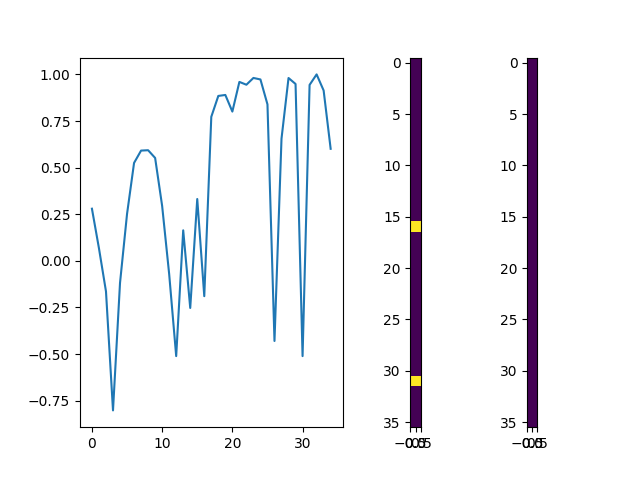
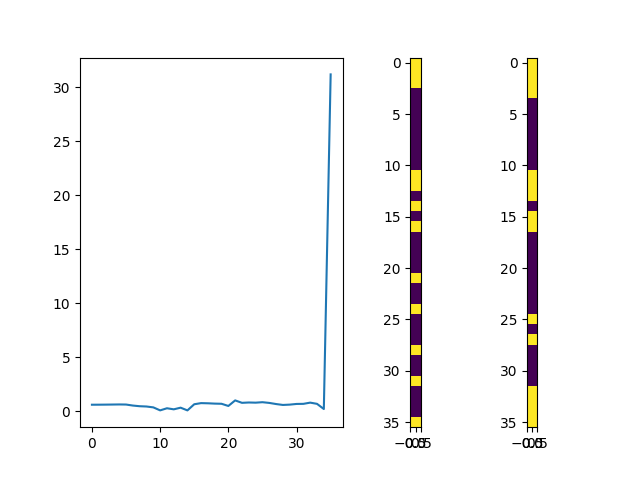
baseline working peaks to slot model.

diff --git a/1d/peaks_to_slot/preprocess.py b/1d/peaks_to_slot/preprocess.py
@@ -12,6 +12,7 @@ def import_data(timestamp_list):
 
     slots_list = []
     peaks_list = []
+    max_list = []
 
     for timestamp in timestamp_list:
         with open('comsol_results/1d/' + timestamp + '.pkl', 'rb') as file:
@@ -25,15 +26,15 @@ def import_data(timestamp_list):
             points = [361 * x for x in np.arange(num_sims + 1)]
             sorted_x = np.array([20*np.log10(results[i:i + 361,1]) for i in points[:-1]])
             peaks = sorted_x[:,floquet_back + floquet_forward]
-            peaks_list.append(peaks / peaks.max(axis=1)[:,None])
-            # peaks_list.append(peaks)
+            max = peaks.max(axis=1)[:,None]
+            normalized = peaks / max
+            peaks_list.append(normalized)
+            max_list.append(max)
 
 
-    return np.concatenate(slots_list), np.concatenate(peaks_list) / 1.0
+    return np.concatenate(slots_list), np.concatenate([np.concatenate(peaks_list) / 1.0, np.concatenate(max_list)],axis=1)
 
-shapes, peaks = import_data(['1645299750'])
 
-peaks.shape
 
 def get_next_batch(input_array, label_array, start_index, batch_size):
     """

diff --git a/1d/peaks_to_slot/peaks_to_slots_model.py b/1d/peaks_to_slot/peaks_to_slots_model.py
@@ -9,15 +9,16 @@ class LWAPredictionModel(tf.keras.Model):
         super(LWAPredictionModel, self).__init__()
 
         self.adam_optimizer = tf.keras.optimizers.Adam(learning_rate=lr)
-        self.batch_size = 50
-        self.epochs = 10
+        self.batch_size = 100
+        self.epochs = 50
 
         self.dense_layers = tf.keras.Sequential()
         self.dense_layers.add(Flatten())
+        self.dense_layers.add(Dense(1000, activation = 'relu'))
+        self.dense_layers.add(Dense(800, activation = 'relu'))
         self.dense_layers.add(Dense(600, activation = 'relu'))
         self.dense_layers.add(Dense(400, activation = 'relu'))
-        self.dense_layers.add(Dense(250, activation = 'relu'))
-        self.dense_layers.add(Dense(125, activation = 'relu'))
+        self.dense_layers.add(Dense(200, activation = 'relu'))
         self.dense_layers.add(Dense(36, activation = 'sigmoid'))
 
     def call(self, input):
